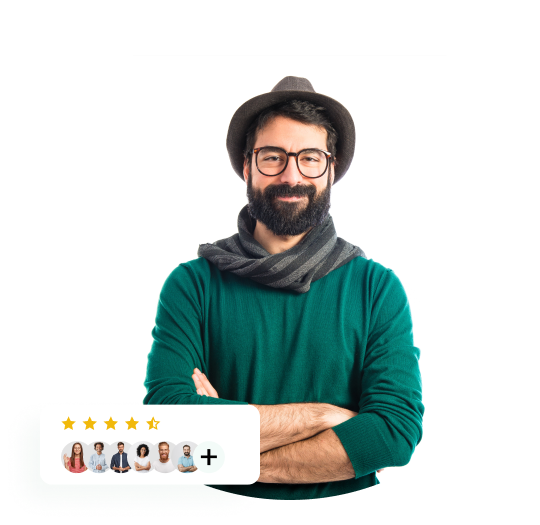
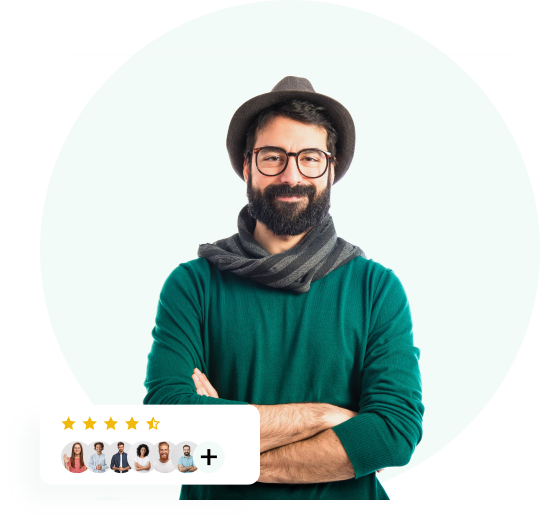
add section

Changed region(s): [[0.3259, 0.9143, 0.5037, 0.9752], [0.5926, 0.9143, 0.7111, 0.9752]]

diff --git a/index.html b/index.html
@@ -40,9 +40,9 @@
 			industry's standard dummy text ever since the <br> 1500s, when an unknown printer took a galley...</p>
 		<div class="open-arrow">
 			<a class="open-arrow-title" href="#">Order Now</a>
-				<a class="open-arrow-link" href="">
-					<div class="arrow-circle"><img class="arrow-img" src="./images/svg/Arrow-right.svg" alt="arrow"></div>
-				</a>
+			<a class="open-arrow-link" href="">
+				<div class="arrow-circle"><img class="arrow-img" src="./images/svg/Arrow-right.svg" alt="arrow"></div>
+			</a>
 		</div>
 		<img src="./images/vegetables-hero.png" alt="vegetables" class="img-hero">
 		<img class="foliage-img" src="./images/foliage.png" alt="foliage">
@@ -50,7 +50,168 @@
 
 </section>
 
+<section class="benefits">
+	<div class="container">
+		<div class="row align-center">
+			<div class="col-7">
+				<h2 class="title">Why We Are The Best?</h2>
+				<p class="desc m-bottom">Lorem Ipsum is simply dummy text of the printing and typesetting industry.
+					Lorem
+					Ipsum
+					has been the industry's standard dummy text ever since the 1500s, when an unknown printer took a
+					galley...</p>
+				<div class="about-benefits">
+					<div class="benefits-circle">
+						<img class="benefits-img" src="./images/svg/motocicle.svg" alt="motobike">
+					</div>
+					<div class="benefits-info">
+						<h4 class="benefits-title">Fasted delivery Service</h4>
+						<p class="benefits-subtitle">Lorem Ipsum is simply dummy text of the printing and
+							typesetting industry.</p>
+					</div>
+				</div>
+				<div class="about-benefits">
+					<div class="benefits-circle">
+						<img class="benefits-img" src="./images/svg/menu.svg" alt="menu">
+					</div>
+					<div class="benefits-info">
+						<h4 class="benefits-title">Online order Service</h4>
+						<p class="benefits-subtitle">Lorem Ipsum is simply dummy text of the printing and
+							typesetting industry.</p>
+					</div>
+				</div>
+				<div class="about-benefits">
+					<div class="benefits-circle">
+						<img class="benefits-img" src="./images/svg/oclock.svg" alt="watch">
+					</div>
+					<div class="benefits-info">
+						<h4 class="benefits-title">24/8 Service</h4>
+						<p class="benefits-subtitle">Lorem Ipsum is simply dummy text of the printing and
+							typesetting industry.</p>
+					</div>
+				</div>
+
+				<div class="arrow-down">
+					<a class="arrow-down-link" href="">
+						<img class="img-arr-down" src="./images/svg/arrow-down.svg" alt="arrow">
+					</a>
+				</div>
+			</div>
+			<div class="col-5">
+				<img src="./images/delivery.png" alt="deliveryman">
+			</div>
+			<img class="line" src="./images/svg/line.svg" alt="line">
+		</div>
+	</div>
+</section>
+
+<section class="special-menu">
+	<div class="container">
+		<div class="row menu">
+			<div class="col-6">
+				<img class="menu-img" src="./images/vegetables.png" alt="menu-items">
+			</div>
+
+			<div class="col-6">
+				<h2 class="title">Explore Our Special Items</h2>
+				<p class="desc m-bottom">Lorem Ipsum is simply dummy text of the printing and typesetting industry.
+					Lorem Ipsum
+					has been the industry's standard dummy text ever since the 1500s, when an unknown printer...</p>
+				<div class="open-arrow menu-items">
+					<a class="open-arrow-title" href="#">Explore Now</a>
+					<a class="open-arrow-link" href="">
+						<div class="arrow-circle"><img class="arrow-img" src="./images/svg/Arrow-right.svg" alt="arrow">
+						</div>
+					</a>
+				</div>
+				<img class="special-menu-img" src="./images/foliage2.png" alt="foliage">
+			</div>
+		</div>
+	</div>
+</section>
+
+<section class="review">
+	<div class="container">
+		<div class="row">
+			<div class="col-7">
+				<h2 class="title">What Our Customers About Us saying</h2>
+				<p class="desc p-right">Lorem Ipsum is simply dummy text of the printing and typesetting industry.
+					Lorem Ipsum
+					has been the industry's standard dummy text ever since the 1500s, when an unknown printer took a
+					galley of type and scrambled it to make a type specimen book. It has survived not only five
+					centuries, but also the leap into electronic typesetting, remaining essentially unchanged. It was
+					popular</p>
+				<h3 class="review-title">Ahmed Hridoy</h3>
+				<img class="review-img" src="./images/stars.png" alt="stars">
+			</div>
+			<div class="col-5">
+				<div class="customer-circle"><img src="./images/customers.png" alt="customer"></div>
+			</div>
+		</div>
+	</div>
+</section>
+
+<section class="order">
+	<div class="container">
+		<div class="row">
+			<div class="col-5">
+				<div class="mobile">
+					<img class="mobile-img" src="./images/iphone.png" alt="iphone">
+				</div>
+			</div>
+			<div class="col-7">
+				<div class="order-info">
+					<a class="download" href="">Download App</a>
+					<h2 class="title">Simple Way To Order Your Organic Fruit </h2>
+					<p class="desc order-desc">Lorem Ipsum is simply dummy text of the printing and typesetting
+						industry. Lorem
+						Ipsum has
+						been the industry's standard dummy text ever since the 1500s, when an unknown printer...</p>
+					<a class="order-link" href=""><img class="link-img" src="./images/App%20Store.png"
+													   alt="appstore"></a>
+					<a class="order-link" href=""><img class="link-img" src="./images/Google%20Play.png"
+													   alt="google-play"></a>
+				</div>
+			</div>
+		</div>
+	</div>
+</section>
+
+<footer>
+	<div class="container">
+		<div class="row">
+			<div class="col-3">
+				<img class="logo-img" src="./images/logo.png" alt="logo">
+				<p class="desc">Lorem Ipsum is simply dummy text of the printing and typesetting industry. Lorem Ipsum
+					has been the industry's standard dummy text ever since the 1500s, when an unknown printer...</p>
+			</div>
+
+			<div class="col-3">
+				<h4 class="footer-title">Navigation</h4>
+				<a class="footer-link" href="#">About Us</a>
+				<a class="footer-link"  href="#">Service</a>
+				<a class="footer-link" href="#">Menu</a>
+			</div>
+			<div class="col-3">
+				<h4 class="footer-title">Resources</h4>
+				<a class="footer-link" href="#">Reviews</a>
+				<a class="footer-link"  href="#">Blog</a>
+				<a class="footer-link" href="#">Update News</a>
+			</div>
+			<div class="col-3">
+				<h4 class="footer-title">Contact Us</h4>
+				<a class="footer-link" href="mailto: oyasim@email.com">Email: oyasim@email.com</a>
+				<a class="footer-link-social"  href="#"><img src="./images/svg/facebook.svg" alt=""></a>
+				<a class="footer-link-social"  href="#"><img src="./images/svg/twitter.svg" alt=""></a>
+				<a class="footer-link-social"  href="#"><img src="./images/svg/instagram.svg" alt=""></a>
+
+			</div>
+		</div>
+	</div>
+</footer>
 
 <script src="./js/script.js"></script>
 </body>
 </html>
+
+

diff --git a/css/style.css b/css/style.css
@@ -19,6 +19,7 @@ h2 {
     font-family: 'Rosario', sans-serif;
     font-weight: 700;
     font-size: 70px;
+    line-height: 90px;
 }
 
 a {
@@ -30,7 +31,27 @@ a {
     margin: 0 auto;
     padding: 0 15px;
 }
-
+.row{
+    display: flex;
+    flex-wrap: wrap;
+    margin: 0 -15px;
+}
+.col-7{
+    width: 58.3333%;
+    padding: 0 15px;
+}
+.col-5 {
+    width: 41.6666%;
+    padding: 0 15px;
+}
+.col-6{
+    width: 50%;
+    padding: 0 15px;
+}
+.col-3{
+    width: 25%;
+    padding: 0 15px;
+}
 header {
     padding: 50px 0 43px;
 }
@@ -159,4 +180,167 @@ header {
     position: absolute;
     top: -130px;
     left: -85px;
+}
+
+.benefits{
+    padding: 140px 0 145px;
+}
+
+
+
+.about-benefits{
+    padding: 40px 95px 40px 60px;
+    display: flex;
+    align-items: center;
+
+}
+.about-benefits:hover{
+    background: #F3FBF8;
+    border-radius: 8px;
+}
+
+.about-benefits:hover .benefits-circle{
+    background: #ffffff;
+}
+
+.benefits-circle{
+    width: 80px;
+    height: 80px;
+    min-width: 80px;
+    border-radius: 50%;
+    background: #F3FBF8;
+    display: flex;
+    justify-content: center;
+    align-items: center;
+    margin-right: 24px;
+
+}
+.m-bottom{
+    margin-bottom: 56px;
+   padding-right: 25px;
+}
+
+.arrow-down{
+ text-align: center;
+}
+
+.benefits-title{
+    font-size: 20px;
+    font-weight: 700;
+    line-height: 30px;
+    margin-bottom: 8px;
+
+}
+.benefits-subtitle{
+    font-size: 14px;
+    font-weight: 400;
+    line-height: 20px;
+    color: #555555;
+    text-align: left;
+
+}
+.align-center{
+    align-items: end;
+}
+.benefits .container{
+    position: relative;
+    z-index: 2;
+}
+.line{
+    position: absolute;
+    right: -62px;
+    top: -176px;
+    z-index: -1;
+}
+.special-menu{
+    background: rgba(9, 166, 109, 0.05);
+    padding: 89px 0 143px;
+}
+.menu-items{
+    justify-content: left;
+}
+.row.menu{
+    position: relative;
+}
+.special-menu-img{
+    position: absolute;
+    bottom: -97px;
+    right: -17px;
+}
+.review{
+    padding: 96px 0 150px;
+}
+.customer-circle{
+    width: 500px;
+    height: 500px;
+    border-radius: 50%;
+    background: #F3FBF8;
+}
+.review-title{
+    font-size: 30px;
+    font-weight: 500;
+    margin-bottom: 20px;
+}
+.p-right{
+    padding-right: 114px;
+}
+.order{
+    padding-bottom: 140px;
+}
+.order-container{
+    display: flex;
+    justify-content: center;
+}
+.order-link{
+    margin-right: 24px;
+}
+.order-info{
+    padding-top: 35px;
+
+}
+.download{
+    padding: 11px 24px;
+    background: #F3FBF8;
+    font-size: 18px;
+    font-weight: 400;
+    border-radius: 50px;
+    color: #333;
+    display: inline-block;
+    margin-bottom: 16px;
+}
+
+.download:hover{
+    background: #ceeedd;
+    color: #404847;
+
+}
+
+.order-desc{
+    margin-bottom: 50px;
+    padding-right: 110px;
+}
+.mobile{
+    padding-left: 110px;
+
+}
+.footer{
+    padding: 67px 118px;
+
+}
+.footer-title{
+    margin-bottom: 40px;
+    font-size: 24px;
+    font-weight: 500;
+
+
+}
+.footer-link{
+    display: block;
+    font-weight: 400;
+    font-size: 18px;
+    color: #555555;
+    margin-bottom: 24px;
+}
+.footer-link-social{
+    margin-right: 50px;
 }
